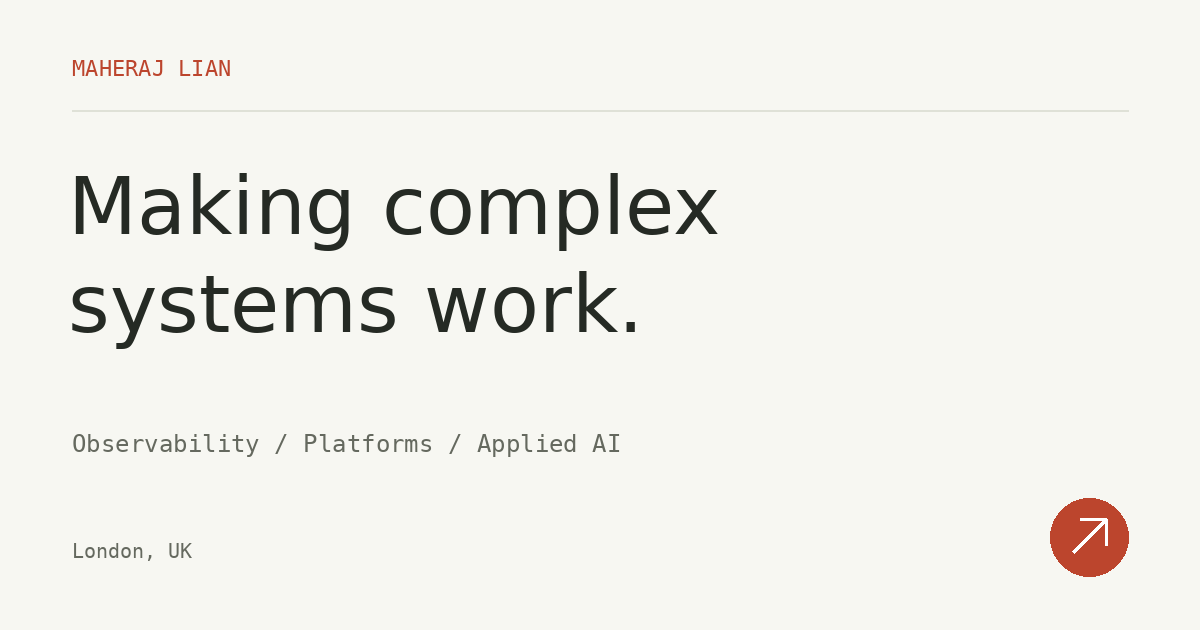
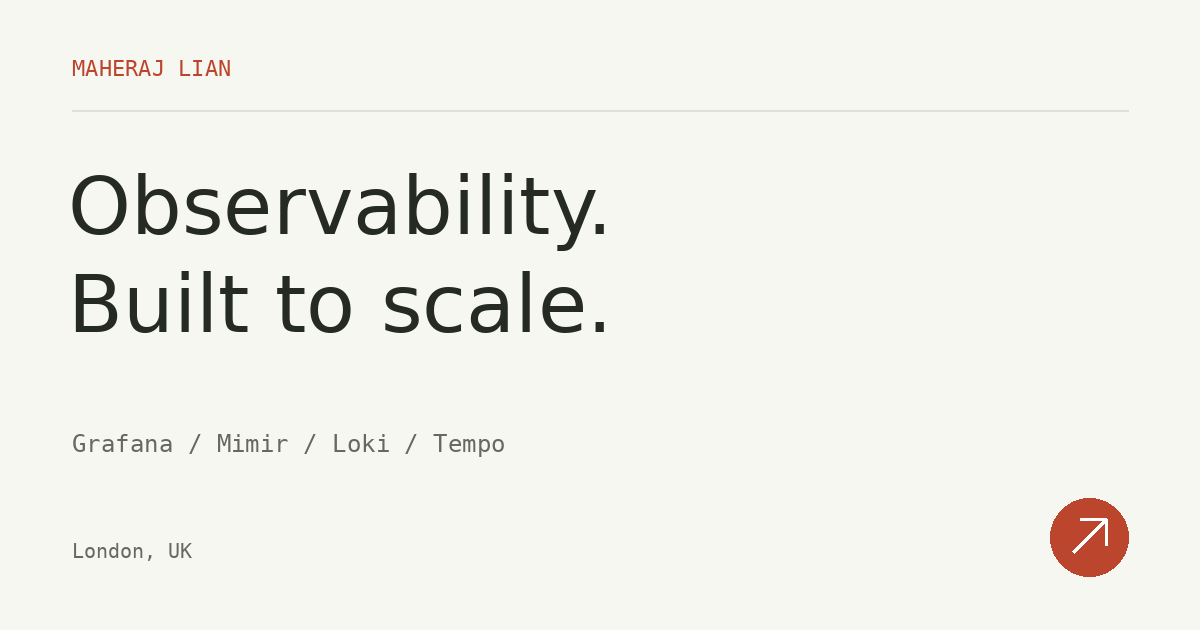
Lead with Grafana observability work and add persistent dark mode

Changed region(s): [[0.0617, 0.2714, 0.6167, 0.3921], [0.0617, 0.4222, 0.5242, 0.573], [0.0617, 0.6937, 0.5242, 0.7238]]

diff --git a/site/index.html b/site/index.html
@@ -5,92 +5,111 @@
   <meta name="viewport" content="width=device-width, initial-scale=1">
   <meta name="theme-color" content="#f7f7f2">
   <title>Maheraj Lian — Systems &amp; Platform Engineer</title>
-  <meta name="description" content="Maheraj Lian is a London-based engineer building observability platforms, distributed systems and applied AI at UBS.">
+  <meta name="description" content="Maheraj Lian engineers enterprise observability at UBS: Grafana, Mimir, Loki, Tempo and governed delivery pipelines used by hundreds of teams.">
   <link rel="canonical" href="https://maherajlian.github.io/my-resume/">
   <meta property="og:type" content="website">
   <meta property="og:title" content="Maheraj Lian — Systems &amp; Platform Engineer">
-  <meta property="og:description" content="Making complex systems work. Observability, distributed systems, platform engineering and applied AI.">
+  <meta property="og:description" content="Observability. Built to scale. Grafana-based monitoring and governed delivery across a global enterprise.">
   <meta property="og:url" content="https://maherajlian.github.io/my-resume/">
   <meta property="og:image" content="https://maherajlian.github.io/my-resume/assets/social.png">
   <meta property="og:image:width" content="1200">
   <meta property="og:image:height" content="630">
-  <meta property="og:image:alt" content="Maheraj Lian. Systems engineering, observability and applied AI. London, UK.">
+  <meta property="og:image:alt" content="Maheraj Lian. Observability. Built to scale. Grafana, Mimir, Loki and Tempo. London, UK.">
   <meta name="twitter:card" content="summary_large_image">
   <link rel="icon" href="assets/favicon.svg" type="image/svg+xml">
+  <script src="theme.js"></script>
   <link rel="stylesheet" href="styles.css">
 </head>
 <body>
   <a class="skip-link" href="#main">Skip to content</a>
   <header class="site-header wrap">
     <a class="brand" href="#" aria-label="ml. Maheraj Lian, back to top"><span class="monogram" aria-hidden="true">ml<span>.</span></span><span>Maheraj Lian</span></a>
-    <nav aria-label="Main navigation">
+    <div class="header-actions"><nav aria-label="Main navigation">
       <a href="#work">Work</a>
       <a href="#experience">Experience</a>
       <a href="#about">About</a>
       <a class="nav-contact" href="#contact">Let’s talk <span aria-hidden="true">↗</span></a>
-    </nav>
+    </nav><button class="theme-toggle" id="theme-toggle" type="button" aria-pressed="false" hidden>
+      <svg class="theme-icon-moon" aria-hidden="true" viewBox="0 0 24 24" fill="none" stroke="currentColor" stroke-width="1.5"><path d="M20 15.5A8.5 8.5 0 0 1 8.5 4 8.5 8.5 0 1 0 20 15.5Z"/></svg>
+      <svg class="theme-icon-sun" aria-hidden="true" viewBox="0 0 24 24" fill="none" stroke="currentColor" stroke-width="1.5"><circle cx="12" cy="12" r="4"/><path d="M12 2v2m0 16v2M2 12h2m16 0h2M5 5l1.5 1.5m11 11L19 19M5 19l1.5-1.5m11-11L19 5"/></svg>
+      <span class="theme-label">Dark mode</span>
+    </button></div>
   </header>
 
   <main id="main">
     <section class="hero wrap" aria-labelledby="hero-title">
       <div class="hero-copy">
-        <p class="eyebrow"><span class="status-dot" aria-hidden="true"></span> Systems engineer · London, UK</p>
-        <h1 id="hero-title">Making complex<br>systems <em>work.</em></h1>
-        <p class="intro">I build the platforms that help people see clearly, move faster and keep critical systems running.</p>
-        <p class="hero-detail">Observability, distributed systems and applied AI.<br>Currently engineering at <strong>UBS.</strong></p>
+        <p class="eyebrow"><span class="status-dot" aria-hidden="true"></span> Observability &amp; platform engineering · London</p>
+        <h1 id="hero-title">Observability.<br>Built to <em>scale.</em></h1>
+        <p class="intro">I engineer Grafana-based monitoring and governed delivery pipelines, helping teams understand production systems and safely ship observability changes.</p>
+        <p class="hero-detail">Grafana · Mimir · Loki · Tempo · Prometheus<br>Systems and platform engineering at <strong>UBS.</strong></p>
         <div class="hero-actions">
           <a class="button button-dark" href="#work">Explore my work <span aria-hidden="true">↓</span></a>
           <a class="text-link" href="assets/Maheraj-Lian-CV.pdf" download>Download CV <span class="file-label">PDF</span><span aria-hidden="true">↗</span></a>
         </div>
       </div>
       <div class="system-illustration" aria-hidden="true">
-        <div class="diagram-top"><span>AN ENGINEER’S PERSPECTIVE</span><span>01 / 03</span></div>
+        <div class="diagram-top"><span>GRAFANA ECOSYSTEM</span><span>METRICS / LOGS / TRACES</span></div>
         <svg viewBox="0 0 460 330" fill="none">
-          <defs><pattern id="dots" x="0" y="0" width="20" height="20" patternUnits="userSpaceOnUse"><circle cx="1" cy="1" r="1" fill="#d7d9d0"/></pattern></defs>
+          <defs><pattern id="dots" x="0" y="0" width="20" height="20" patternUnits="userSpaceOnUse"><circle cx="1" cy="1" r="1" fill="var(--diagram-dot)"/></pattern></defs>
           <path fill="url(#dots)" d="M0 0h460v330H0z"/>
-          <circle cx="230" cy="167" r="124" stroke="#d6d9ce" stroke-dasharray="4 6"/>
-          <path d="M100 100h80v67h50m130-67h-80v67h-50m0 0v99" stroke="#9aab93" stroke-width="1.5"/>
+          <circle cx="230" cy="167" r="124" stroke="var(--diagram-line)" stroke-dasharray="4 6"/>
+          <path d="M100 100h80v67h50m130-67h-80v67h-50m0 0v99" stroke="var(--diagram-track)" stroke-width="1.5"/>
           <circle cx="180" cy="134" r="4" fill="#d95639"/>
           <circle cx="280" cy="130" r="4" fill="#d95639"/>
           <circle cx="230" cy="235" r="4" fill="#d95639"/>
-          <rect x="26" y="67" width="140" height="65" rx="4" fill="#f7f7f2" stroke="#c8cec0"/>
-          <path d="M44 101h6l4-12 6 22 6-14h12" stroke="#607657" stroke-width="1.8"/>
-          <text x="44" y="120" fill="#4d5948" font-size="10" font-family="monospace">OBSERVABILITY</text>
-          <rect x="294" y="67" width="140" height="65" rx="4" fill="#f7f7f2" stroke="#c8cec0"/>
-          <path d="M313 87h18v6h-18zm0 10h18v6h-18z" stroke="#607657" stroke-width="1.5"/>
-          <text x="312" y="120" fill="#4d5948" font-size="10" font-family="monospace">PLATFORMS</text>
-          <rect x="160" y="260" width="140" height="54" rx="4" fill="#f7f7f2" stroke="#c8cec0"/>
-          <path d="m181 272 3 7 7 3-7 3-3 7-3-7-7-3 7-3z" stroke="#607657" stroke-width="1.5"/>
-          <text x="199" y="286" fill="#4d5948" font-size="10" font-family="monospace">APPLIED AI</text>
+          <rect x="26" y="67" width="140" height="65" rx="4" fill="var(--paper)" stroke="var(--diagram-line)"/>
+          <path d="M44 101h6l4-12 6 22 6-14h12" stroke="var(--green)" stroke-width="1.8"/>
+          <text x="44" y="120" fill="var(--diagram-text)" font-size="10" font-family="monospace">METRICS &amp; LOGS</text>
+          <rect x="294" y="67" width="140" height="65" rx="4" fill="var(--paper)" stroke="var(--diagram-line)"/>
+          <path d="M313 87h18v6h-18zm0 10h18v6h-18z" stroke="var(--green)" stroke-width="1.5"/>
+          <text x="312" y="120" fill="var(--diagram-text)" font-size="10" font-family="monospace">DASHBOARDS</text>
+          <rect x="160" y="260" width="140" height="54" rx="4" fill="var(--paper)" stroke="var(--diagram-line)"/>
+          <path d="m181 272 3 7 7 3-7 3-3 7-3-7-7-3 7-3z" stroke="var(--green)" stroke-width="1.5"/>
+          <text x="199" y="286" fill="var(--diagram-text)" font-size="9" font-family="monospace">TRACES &amp; ALERTS</text>
           <rect x="191" y="129" width="78" height="78" rx="15" fill="#d95639"/>
           <path d="m208 167 13 13 29-29" stroke="#fff" stroke-width="3" stroke-linecap="round" stroke-linejoin="round"/>
-          <circle cx="116" cy="224" r="5" fill="#e1e6da" stroke="#9aab93"/>
-          <circle cx="356" cy="217" r="5" fill="#e1e6da" stroke="#9aab93"/>
+          <circle cx="116" cy="224" r="5" fill="var(--diagram-node)" stroke="var(--diagram-track)"/>
+          <circle cx="356" cy="217" r="5" fill="var(--diagram-node)" stroke="var(--diagram-track)"/>
         </svg>
-        <div class="diagram-bottom"><span class="status-dot"></span> COMPLEXITY IN. CLARITY OUT.</div>
+        <div class="diagram-bottom"><span class="status-dot"></span> VISIBILITY. DELIVERY. RELIABILITY.</div>
       </div>
     </section>
 
     <section class="impact wrap" aria-label="Selected engineering impact at UBS">
-      <div><p class="metric">7M<span>+</span></p><p>duplicate alerts suppressed daily</p></div>
-      <div><p class="metric">98.3<span>%</span></p><p>reduction in enrichment time</p></div>
       <div><p class="metric">6<span>+</span></p><p>production regions supported</p></div>
-      <div><p class="metric">30<span>%</span></p><p>less incident triage time in pilot</p></div>
+      <div><p class="metric">1,000s</p><p>Grafana resources governed</p></div>
+      <div><p class="metric">100s</p><p>engineering teams enabled</p></div>
+      <div><p class="metric">7M<span>+</span></p><p>duplicate alerts suppressed daily</p></div>
     </section>
 
     <section class="section wrap" id="work" aria-labelledby="work-title">
-      <div class="section-heading"><div><p class="eyebrow">01 / Selected work</p><h2 id="work-title">Built for the real world.</h2></div><p>Enterprise scale. Measurable impact.<br> Selected engineering work at UBS.</p></div>
+      <div class="section-heading"><div><p class="eyebrow">01 / Selected work</p><h2 id="work-title">Observability, from platform to production.</h2></div><p>Leading with my recent Grafana work.<br> Built for the scale and controls of UBS.</p></div>
       <div class="work-grid">
-        <article class="work-card"><div class="card-top"><span class="card-number">01</span><span class="category">Distributed systems</span><svg aria-hidden="true" viewBox="0 0 24 24"><path d="M4 7h5v5h6V7h5M12 12v8M2 4h4v5H2zm16 0h4v5h-4zM10 18h4v4h-4z"/></svg></div><h3>Less noise.<br>More signal.</h3><p>Designed a Redis-backed event suppression platform eliminating over 7 million duplicate alerts every day, reducing monitoring noise by 70–90% and keeping ingestion stable during event storms.</p><p class="card-result">7M+ <span>duplicate alerts suppressed / day</span></p><ul class="tags" aria-label="Technologies"><li>Redis</li><li>Cribl Stream</li><li>BigPanda</li></ul></article>
-        <article class="work-card"><div class="card-top"><span class="card-number">02</span><span class="category">Platform engineering</span><svg aria-hidden="true" viewBox="0 0 24 24"><path d="M4 5h16v5H4zm0 9h16v5H4zM7 7.5h1m-1 9h1m3-9h6m-6 9h6"/></svg></div><h3>A safer path<br>to production.</h3><p>Independently architected the first approved bank-wide Grafana SDLC: governed CI/CD for thousands of observability resources, used by hundreds of engineering teams across 6+ production regions.</p><p class="card-result">Hundreds <span>of engineering teams enabled</span></p><ul class="tags" aria-label="Technologies"><li>Python</li><li>GitLab CI/CD</li><li>Grafana</li></ul></article>
-        <article class="work-card"><div class="card-top"><span class="card-number">03</span><span class="category">Performance &amp; reliability</span><svg aria-hidden="true" viewBox="0 0 24 24"><path d="M3 18a9 9 0 1 1 18 0M12 15l5-7M7 11l-2-2m7-1V5m6 6 2-2"/><circle cx="12" cy="16" r="2"/></svg></div><h3>Five hours.<br>Five minutes.</h3><p>Re-architected a real-time enrichment pipeline processing 5 million+ records. Parallel workers, batch processing and Redis pipelining cut runtime while Azure Key Vault protected sensitive metadata.</p><p class="card-result">98.3% <span>reduction in processing time</span></p><ul class="tags" aria-label="Technologies"><li>Python</li><li>Azure Redis</li><li>Multithreading</li></ul></article>
+        <article class="work-card work-card-featured">
+          <div class="card-top"><span class="card-number">01</span><span class="category">Grafana SDLC</span><svg aria-hidden="true" viewBox="0 0 24 24"><path d="M4 5h16v5H4zm0 9h16v5H4zM7 7.5h1m-1 9h1m3-9h6m-6 9h6"/></svg></div>
+          <h3>A governed path<br>for Grafana changes.</h3>
+          <p><strong>The context.</strong> In a regulated bank, dashboards and alert rules need controlled production changes too—not just application code.</p>
+          <p><strong>My contribution.</strong> I independently architected and built the first approved bank-wide GitLab SDLC for Grafana configuration. Python pipelines validate and promote resources, combining mandatory peer review with SRE-controlled approval gates, including silence and mute-timing changes.</p>
+          <p><strong>The impact.</strong> Thousands of merge requests and daily promotions across hundreds of engineering teams, from development environments into 6+ geographical production regions.</p>
+          <p class="card-result">Thousands <span>of Grafana resources under governed delivery</span></p><ul class="tags" aria-label="Technologies"><li>Grafana</li><li>Python</li><li>GitLab CI/CD</li></ul>
+        </article>
+        <article class="work-card work-card-featured">
+          <div class="card-top"><span class="card-number">02</span><span class="category">Grafana ecosystem</span><svg aria-hidden="true" viewBox="0 0 24 24"><path d="M2 13h5l3-8 4 15 3-7h5"/></svg></div>
+          <h3>Metrics. Logs. Traces.<br>At enterprise scale.</h3>
+          <p><strong>The context.</strong> Application teams need reliable baseline monitoring before they can add their own dashboards, alerts and operational insights.</p>
+          <p><strong>My contribution.</strong> I engineered monitoring capabilities across Grafana Mimir for metrics, Loki for logs and Tempo for distributed traces, alongside Prometheus and Alertmanager. The bank-wide platform supports tens of thousands of applications and internal infrastructure across multiple regions.</p>
+          <p><strong>Team enablement.</strong> I also delivered technical training and knowledge-sharing sessions to hundreds of engineers across global business functions and technology streams.</p>
+          <p class="card-result">Global <span>baseline monitoring, with application-specific insight</span></p><ul class="tags" aria-label="Technologies"><li>Mimir</li><li>Loki</li><li>Tempo</li><li>Prometheus</li></ul>
+        </article>
+        <article class="work-card"><div class="card-top"><span class="card-number">03</span><span class="category">Event processing &amp; reliability</span><svg aria-hidden="true" viewBox="0 0 24 24"><path d="M3 18a9 9 0 1 1 18 0M12 15l5-7M7 11l-2-2m7-1V5m6 6 2-2"/><circle cx="12" cy="16" r="2"/></svg></div><h3>Quieter pipelines.<br>Faster enrichment.</h3><p>Beyond the Grafana stack, I designed Redis-backed event suppression eliminating 7 million+ duplicate alerts daily and reducing noise by 70–90%. In a separate enrichment pipeline processing 5 million+ records, parallel workers, batching and Redis pipelining cut runtime from five hours to five minutes—a 98.3% reduction.</p><p class="card-result">7M+ <span>duplicate alerts suppressed / day</span></p><ul class="tags" aria-label="Technologies"><li>Redis</li><li>Cribl Stream</li><li>BigPanda</li></ul></article>
         <article class="work-card"><div class="card-top"><span class="card-number">04</span><span class="category">Applied AI</span><svg aria-hidden="true" viewBox="0 0 24 24"><path d="m12 2 3 7 7 3-7 3-3 7-3-7-7-3 7-3z"/></svg></div><h3>Better context.<br>Faster response.</h3><p>Took an enterprise AI incident assistant from solo proof of concept to delivery with a five-engineer team. Connected incident context and similar-incident discovery with response guardrails and prompt regression tests.</p><p class="card-result">30% <span>less triage time during the pilot</span></p><ul class="tags" aria-label="Technologies"><li>Azure OpenAI</li><li>Python / Flask</li><li>RAG</li></ul></article>
       </div>
     </section>
 
     <section class="experience-section" id="experience" aria-labelledby="experience-title"><div class="section wrap">
       <div class="section-heading"><div><p class="eyebrow">02 / Experience</p><h2 id="experience-title">From ideas to infrastructure.</h2></div><p>4+ years building and supporting<br> mission-critical enterprise systems.</p></div>
-      <article class="experience-row"><div class="job-meta"><p class="company">UBS<span class="company-dot">.</span></p><p>Sep 2022 — Present</p><p>London, UK</p></div><div class="job-body"><h3>Applied AI Engineer</h3><p class="job-team">Automation Services</p><p>Systems and platform engineering across enterprise observability, distributed event processing, production monitoring and incident automation in a global, regulated financial institution.</p><ul class="job-highlights"><li>Built monitoring across Grafana Mimir, Loki, Tempo, Prometheus and Alertmanager, supporting metrics, logs and traces across global infrastructure.</li><li>Led the observability team’s Netcool migration to BigPanda and Cribl Stream across approximately 12 major integrations, replacing 40+ custom Perl enrichment scripts and onboarding 10+ engineering teams.</li><li>Act as an engineering escalation point for SRE teams; built end-to-end alert latency monitoring with Python, Prometheus and Grafana.</li></ul><details><summary>More about my work at UBS <span aria-hidden="true">+</span></summary><div class="details-content"><p>Built governed Python automation for Grafana dashboards, alert rules and controlled silence changes, with peer reviews, automated validation and SRE approval gates.</p><p>Developed incident summarisation and retrieval using Azure OpenAI, embeddings, Azure AI Search and daily Databricks indexing pipelines, processing hundreds of thousands of records at peak.</p><p>Implemented secure deployment patterns with Azure Key Vault, private endpoints, Terraform and CI/CD. Delivered technical training and knowledge-sharing to hundreds of engineers across global teams.</p></div></details></div></article>
+      <article class="experience-row"><div class="job-meta"><p class="company">UBS<span class="company-dot">.</span></p><p>Sep 2022 — Present</p><p>London, UK</p></div><div class="job-body"><h3>Applied AI Engineer</h3><p class="job-team">Automation Services</p><p>My recent work centres on enterprise observability and platform engineering: giving application teams visibility into production and a governed way to manage their Grafana resources in a global, regulated financial institution.</p><ul class="job-highlights"><li>Independently architected the bank-wide Grafana SDLC: Python validation and promotion, mandatory peer review and SRE approval gates for thousands of resources across 6+ production regions.</li><li>Engineered monitoring with Grafana Mimir, Loki, Tempo, Prometheus and Alertmanager, supporting metrics, logs and distributed traces across global infrastructure.</li><li>Enabled application teams through baseline monitoring and technical training for hundreds of engineers. Act as an engineering escalation point for SRE teams, with end-to-end alert latency monitoring built using Python, Prometheus and Grafana.</li></ul><details><summary>More engineering work at UBS <span aria-hidden="true">+</span></summary><div class="details-content"><p>Led the observability team’s Netcool migration to BigPanda and Cribl Stream across approximately 12 major integrations, replacing 40+ custom Perl enrichment scripts and onboarding 10+ engineering teams.</p><p>Developed incident summarisation and retrieval using Azure OpenAI, embeddings, Azure AI Search and daily Databricks indexing pipelines, processing hundreds of thousands of records at peak.</p><p>Implemented secure deployment patterns with Azure Key Vault, private endpoints, Terraform and CI/CD.</p></div></details></div></article>
       <article class="experience-row"><div class="job-meta"><p class="company company-small">Zustech</p><p>Dec 2021 — Jun 2022</p><p>Remote</p></div><div class="job-body"><h3>Software Engineering Intern</h3><p>Developed REST APIs with ASP.NET Core for an enterprise learning platform, supporting authentication and transactional workflows. Optimised SQL Server schemas, indexing and stored procedures to reduce critical endpoint response times by 40%, and deployed services to AWS.</p></div></article>
     </div></section>
 

diff --git a/site/styles.css b/site/styles.css
@@ -1,21 +1,31 @@
 @charset "UTF-8";
-:root{--paper:#f7f7f2;--ink:#252a24;--muted:#65695f;--accent:#bc452d;--line:#dfe1d7;--green:#617353;--tint:#eef0e7;--white:#fff;--mono:"SFMono-Regular",Consolas,"Liberation Mono",monospace;--sans:Arial,Helvetica,sans-serif}
+:root{color-scheme:light;--paper:#f7f7f2;--ink:#252a24;--muted:#65695f;--accent:#bc452d;--line:#dfe1d7;--green:#617353;--tint:#eef0e7;--panel:#fafbf7;--about:#f0f0e9;--line-strong:#d5dace;--green-muted:#53644b;--diagram-line:#c8cec0;--diagram-track:#9aab93;--diagram-text:#4d5948;--diagram-dot:#d7d9d0;--diagram-node:#e1e6da;--badge-line:#aebba1;--link-rule:#a4aa9b;--mono:"SFMono-Regular",Consolas,"Liberation Mono",monospace;--sans:Arial,Helvetica,sans-serif}
+:root[data-theme="dark"]{color-scheme:dark;--paper:#141b18;--ink:#e9ede5;--muted:#abb5a8;--accent:#ee997d;--line:#344239;--green:#afc69b;--tint:#1c2921;--panel:#1b251f;--about:#1a241e;--line-strong:#3a4a3c;--green-muted:#acbfa0;--diagram-line:#60735f;--diagram-track:#71896b;--diagram-text:#bacbb0;--diagram-dot:#42513f;--diagram-node:#29392b;--badge-line:#72856a;--link-rule:#819379}
 *{box-sizing:border-box}
 html{scroll-behavior:smooth;scroll-padding-top:30px}
 body{margin:0;background:var(--paper);color:var(--ink);font-family:var(--sans);font-size:16px;line-height:1.65;-webkit-font-smoothing:antialiased}
 ::selection{background:#f2c3ad;color:var(--ink)}
 a{color:inherit;text-decoration:none}
 a:hover{color:var(--accent)}
-a,summary{touch-action:manipulation}
-a:focus-visible,summary:focus-visible{outline:3px solid var(--accent);outline-offset:6px;border-radius:2px}
+a,summary,button{touch-action:manipulation}
+a:focus-visible,summary:focus-visible,button:focus-visible{outline:3px solid var(--accent);outline-offset:6px;border-radius:2px}
 h1,h2,h3,h4,p{margin:0}
 h1,h2,h3,h4{font-weight:500;line-height:1.12;letter-spacing:-.045em}
 em{font-family:Georgia,"Times New Roman",serif;font-weight:400;color:var(--accent)}
 .wrap{width:min(1200px,calc(100% - 112px));margin-inline:auto}
-.skip-link{position:absolute;top:12px;left:16px;z-index:10;padding:8px 14px;background:var(--ink);color:white;transform:translateY(-160%)}
-.skip-link:focus{transform:translateY(0);color:white}
+.skip-link{position:absolute;top:12px;left:16px;z-index:10;padding:8px 14px;background:var(--ink);color:var(--paper);transform:translateY(-160%)}
+.skip-link:focus{transform:translateY(0);color:var(--paper)}
 .site-header{min-height:108px;display:flex;align-items:center;justify-content:space-between;border-bottom:1px solid var(--line);gap:24px}
 .brand{display:flex;gap:14px;align-items:center;font-size:14px;font-weight:600;letter-spacing:-.02em}
+.header-actions{display:flex;align-items:center;gap:24px}
+.theme-toggle{display:inline-flex;align-items:center;justify-content:center;gap:7px;min-width:44px;min-height:44px;padding:8px 10px;background:transparent;color:var(--ink);border:1px solid var(--line);border-radius:4px;cursor:pointer;font:10px var(--mono)}
+.theme-toggle[hidden]{display:none}
+.theme-toggle:hover{border-color:var(--accent)}
+.theme-toggle[aria-pressed="true"]{border-color:var(--green)}
+.theme-toggle svg{width:16px;height:16px;flex:none}
+.theme-icon-sun{display:none}
+[data-theme="dark"] .theme-icon-sun{display:block}
+[data-theme="dark"] .theme-icon-moon{display:none}
 .monogram{font-size:34px;line-height:1;font-weight:700;letter-spacing:-.11em}
 .monogram span{color:var(--accent)}
 nav{display:flex;align-items:center;gap:32px;font-size:13px}
@@ -31,13 +41,13 @@ h1{font-size:clamp(52px,5.7vw,82px);line-height:1.04;letter-spacing:-.065em;marg
 .hero-actions{display:flex;align-items:center;flex-wrap:wrap;gap:26px;margin-top:32px;font-size:12px}
 .button{display:inline-flex;align-items:center;justify-content:center;gap:32px;min-height:48px;padding:12px 20px;border:1px solid var(--ink);transition:background .15s,color .15s}
 .button-dark{background:var(--ink);color:var(--paper)}
-.button-dark:hover{background:var(--accent);border-color:var(--accent);color:white}
+.button-dark:hover{background:var(--accent);border-color:var(--accent);color:var(--paper)}
 .text-link{display:inline-flex;gap:9px;align-items:center;padding-block:12px}
 .file-label{font:9px var(--mono);color:var(--muted);border:1px solid var(--line);padding:3px}
-.system-illustration{background:var(--tint);border:1px solid #dfe3d5;border-radius:6px;transform:rotate(-2deg);padding:20px 17px 18px;max-width:460px}
+.system-illustration{background:var(--tint);border:1px solid var(--line);border-radius:6px;transform:rotate(-2deg);padding:20px 17px 18px;max-width:460px}
 .system-illustration svg{display:block;width:100%;height:auto;margin-block:14px}
-.diagram-top{display:flex;justify-content:space-between;font:8px var(--mono);letter-spacing:.04em;color:#5c6655}
-.diagram-bottom{font:9px var(--mono);letter-spacing:.05em;display:flex;gap:7px;align-items:center;justify-content:center;color:#4d5948}
+.diagram-top{display:flex;justify-content:space-between;font:8px var(--mono);letter-spacing:.04em;color:var(--green-muted)}
+.diagram-bottom{font:9px var(--mono);letter-spacing:.05em;display:flex;gap:7px;align-items:center;justify-content:center;color:var(--diagram-text)}
 .impact{display:grid;grid-template-columns:repeat(4,1fr);padding-block:32px 35px;border-block:1px solid var(--line);gap:24px}
 .impact>div{border-right:1px solid var(--line);padding-right:20px}
 .impact>div:last-child{border:0;padding:0}
@@ -49,7 +59,9 @@ h1{font-size:clamp(52px,5.7vw,82px);line-height:1.04;letter-spacing:-.065em;marg
 .section-heading h2{font-size:38px;margin-top:17px}
 .section-heading>p{font-size:12px;line-height:1.8;color:var(--muted);min-width:220px;padding-bottom:2px}
 .work-grid{display:grid;grid-template-columns:repeat(2,minmax(0,1fr));gap:20px}
-.work-card{padding:30px 32px 26px;background:#fafbf7;border:1px solid var(--line);border-radius:3px;display:flex;flex-direction:column;align-items:start}
+.work-card{padding:30px 32px 26px;background:var(--panel);border:1px solid var(--line);border-radius:3px;display:flex;flex-direction:column;align-items:start}
+.work-card-featured{border-top:3px solid var(--green);background:var(--tint)}
+.work-card strong{font-weight:500;color:var(--ink)}
 .card-top{display:flex;gap:13px;align-items:center;width:100%;margin-bottom:31px}
 .card-number{font:10px var(--mono);color:var(--muted)}
 .category{font:9px var(--mono);text-transform:uppercase;letter-spacing:.07em;color:var(--muted)}
@@ -59,9 +71,9 @@ h1{font-size:clamp(52px,5.7vw,82px);line-height:1.04;letter-spacing:-.065em;marg
 .work-card .card-result{font-size:27px;letter-spacing:-.05em;line-height:1.3;margin-top:auto;margin-bottom:23px}
 .card-result span{font-size:11px;letter-spacing:0;color:var(--muted);display:block;margin-top:5px}
 .tags{list-style:none;padding:0;margin:0;display:flex;flex-wrap:wrap;gap:6px}
-.tags li{font:9px var(--mono);padding:7px 9px;border:1px solid var(--line);border-radius:3px;color:#5c6655}
+.tags li{font:9px var(--mono);padding:7px 9px;border:1px solid var(--line);border-radius:3px;color:var(--green-muted)}
 .experience-section{background:var(--tint);border-block:1px solid var(--line)}
-.experience-row{display:grid;grid-template-columns:1fr 2fr;gap:48px;padding-block:36px;border-top:1px solid #d5dace}
+.experience-row{display:grid;grid-template-columns:1fr 2fr;gap:48px;padding-block:36px;border-top:1px solid var(--line-strong)}
 .experience-row:last-child{padding-bottom:0}
 .job-meta>p:not(.company){color:var(--muted);font-size:11px;line-height:1.9}
 .company{font-size:35px;letter-spacing:-.07em;line-height:1.2;margin-bottom:17px}
@@ -69,11 +81,11 @@ h1{font-size:clamp(52px,5.7vw,82px);line-height:1.04;letter-spacing:-.065em;marg
 .company-small{font-size:28px;letter-spacing:-.05em}
 .job-body h3{font-size:24px;letter-spacing:-.035em}
 .job-body>p{font-size:13px;line-height:1.85;color:var(--muted);max-width:650px}
-.job-body>p.job-team{margin-block:8px 17px;font:10px var(--mono);color:#53644b}
+.job-body>p.job-team{margin-block:8px 17px;font:10px var(--mono);color:var(--green-muted)}
 .job-highlights{padding-left:16px;margin:18px 0;color:var(--muted);font-size:12px;line-height:1.9}
 .job-highlights li{padding-left:5px;margin-block:9px}
 .job-highlights li::marker{color:var(--green)}
-details{border-top:1px solid #d5dace;margin-top:24px}
+details{border-top:1px solid var(--line-strong);margin-top:24px}
 summary{cursor:pointer;font-size:12px;padding-block:15px;display:flex;justify-content:space-between;gap:15px;list-style:none}
 summary::-webkit-details-marker{display:none}
 summary span{font-size:18px;color:var(--green);line-height:1}
@@ -87,10 +99,10 @@ details[open] summary span{transform:rotate(45deg)}
 .skills-grid p{font-size:12px;line-height:2;color:var(--muted)}
 .certifications{margin-top:34px;border-top:1px solid var(--line);padding-top:22px;display:flex;align-items:center;gap:10px;font-size:12px;flex-wrap:wrap}
 .certifications>span:last-child{font:10px var(--mono);color:var(--muted);margin-left:auto}
-.cert-icon{border:1px solid #aebba1;border-radius:50%;color:var(--green);width:20px;height:20px;display:inline-flex;align-items:center;justify-content:center;font-size:11px}
-.about-section{background:#f0f0e9;border-block:1px solid var(--line)}
+.cert-icon{border:1px solid var(--badge-line);border-radius:50%;color:var(--green);width:20px;height:20px;display:inline-flex;align-items:center;justify-content:center;font-size:11px}
+.about-section{background:var(--about);border-block:1px solid var(--line)}
 .about-grid{display:grid;grid-template-columns:1fr 1fr;gap:84px}
-.column-heading{font:10px var(--mono);text-transform:uppercase;letter-spacing:.07em;padding-bottom:18px;border-bottom:1px solid #d5dace;margin-bottom:26px}
+.column-heading{font:10px var(--mono);text-transform:uppercase;letter-spacing:.07em;padding-bottom:18px;border-bottom:1px solid var(--line-strong);margin-bottom:26px}
 .about-item,.community-item{margin-top:26px}
 .date-label{font:9px var(--mono);color:var(--muted);letter-spacing:.02em;margin-bottom:10px}
 .about-grid h4{font-size:20px;line-height:1.3;letter-spacing:-.03em}
@@ -102,14 +114,15 @@ details[open] summary span{transform:rotate(45deg)}
 .contact-heading{display:flex;justify-content:space-between;gap:24px;align-items:center;margin-block:23px}
 .contact h2{font-size:56px;letter-spacing:-.05em}
 .contact-arrow{background:var(--ink);color:var(--paper);border-radius:50%;width:74px;height:74px;display:flex;align-items:center;justify-content:center;font-size:37px;flex:none;transition:background .15s}
-.contact-arrow:hover{background:var(--accent);color:white}
-.email-link{font-size:17px;border-bottom:1px solid #a4aa9b;padding-bottom:4px;overflow-wrap:anywhere}
+.contact-arrow:hover{background:var(--accent);color:var(--paper)}
+.email-link{font-size:17px;border-bottom:1px solid var(--link-rule);padding-bottom:4px;overflow-wrap:anywhere}
 .contact-location{font-size:11px;color:var(--muted);margin-top:14px}
 .site-footer{display:flex;justify-content:space-between;align-items:center;gap:24px;border-top:1px solid var(--line);padding-block:26px;font-size:10px;color:var(--muted)}
 .site-footer>div{display:flex;gap:22px}
 @media(min-width:1500px){.hero{padding-block:100px 90px}}
 @media(max-width:1000px){.wrap{width:calc(100% - 64px)}.hero{gap:30px;padding-block:64px}.hero-actions{gap:16px}.system-illustration{padding:14px 10px}.diagram-top{font-size:6px}.diagram-bottom{font-size:7px}.intro{font-size:17px}.metric{font-size:38px}.impact p:last-child{font-size:10px}.section-heading h2{font-size:32px}.section-heading>p{min-width:190px;font-size:11px}.work-card{padding:26px}.category{font-size:8px}.about-grid{gap:48px}.contact h2{font-size:48px}.site-footer>p:nth-child(2){display:none}}
 @media(max-width:720px){.wrap{width:calc(100% - 40px)}.site-header{min-height:84px;gap:12px}.brand{font-size:12px;gap:10px}.monogram{font-size:30px}nav{gap:19px;font-size:11px}nav>a:nth-child(2),nav>a:nth-child(3){display:none}.nav-contact{margin:0}.nav-contact span{margin-left:4px}.hero{grid-template-columns:1fr;padding-block:48px 42px;gap:40px}.hero .eyebrow{font-size:9px}h1{font-size:clamp(46px,9.5vw,68px);margin-top:23px;margin-bottom:22px}.intro{font-size:17px;max-width:440px}.hero-detail{font-size:13px}.hero-actions{gap:22px;margin-top:26px}.system-illustration{transform:none;max-width:none;padding:16px 16px 15px}.system-illustration svg{max-width:360px;margin:8px auto}.diagram-top{font-size:8px}.diagram-bottom{font-size:9px}.impact{grid-template-columns:1fr 1fr;gap:24px 18px;padding-block:27px}.impact>div{padding-right:12px}.impact>div:nth-child(2){border:0}.metric{font-size:37px;margin-bottom:6px}.metric span{font-size:27px}.impact p:last-child{font-size:10px}.section{padding-block:56px}.section-heading{display:block;margin-bottom:28px}.section-heading h2{font-size:31px;margin-top:14px}.section-heading>p{margin-top:17px;font-size:12px}.section-heading>p br{display:none}.eyebrow{font-size:10px}.work-grid{grid-template-columns:1fr;gap:16px}.work-card{padding:25px}.card-top{margin-bottom:25px}.category{font-size:9px}.work-card h3{font-size:30px}.work-card>p:not(.card-result){font-size:13px}.experience-row{grid-template-columns:1fr;gap:22px;padding-block:28px}.job-meta{display:grid;grid-template-columns:1fr auto;column-gap:12px;align-items:center}.job-meta .company{grid-row:span 2;margin-bottom:0;font-size:30px}.job-meta>p:not(.company){font-size:10px;text-align:right}.job-body h3{font-size:23px}.skills-grid{grid-template-columns:1fr 1fr;gap:25px 22px}.skills-grid h3{font-size:17px;line-height:1.25}.skills-grid p{font-size:11px}.about-grid{grid-template-columns:1fr;gap:40px}.contact{padding-block:56px 46px}.contact h2{font-size:clamp(33px,7.7vw,47px)}.contact-heading{gap:15px}.contact-arrow{width:48px;height:48px;font-size:27px}.email-link{font-size:16px}.site-footer{flex-wrap:wrap;gap:12px;padding-block:22px}.site-footer>div{gap:20px}.certifications{font-size:11px}.certifications>span:last-child{font-size:9px}}
+@media(max-width:720px){.header-actions{gap:14px}.theme-toggle{padding:8px}.theme-label{position:absolute;width:1px;height:1px;padding:0;margin:-1px;overflow:hidden;clip-path:inset(50%);white-space:nowrap;border:0}}
 @media(max-width:359px){.wrap{width:calc(100% - 32px)}.brand>span:last-child{display:none}h1{font-size:43px}.hero-actions{gap:14px}.button{gap:20px;padding-inline:15px}.skills-grid{grid-template-columns:1fr}.category{font-size:8px}.contact h2{font-size:30px}.contact-arrow{width:40px;height:40px}.certifications>span:last-child{margin-left:30px}}
 @media(prefers-reduced-motion:reduce){html{scroll-behavior:auto}*,*::before,*::after{transition:none!important}}
-@media print{body{background:white;font-size:11px}.wrap{width:100%}.site-header{min-height:50px}nav,.system-illustration,.hero-actions,.contact-arrow,.site-footer>div,.skip-link{display:none}.hero{display:block;padding-block:28px}h1{font-size:42px}.intro{max-width:none}.impact{padding-block:16px}.section,.contact{padding-block:28px}.section-heading{margin-bottom:20px}.section-heading h2{font-size:26px}.work-card,.skills-grid>div,.about-item,.community-item{break-inside:avoid}.work-card{padding:18px}.work-card h3{font-size:24px}.experience-section,.about-section{background:white}.experience-row{gap:20px;padding-block:20px}.contact h2{font-size:32px}.about-grid{gap:40px}.contact-heading{margin-block:12px}a{color:inherit}.site-footer{display:none}.work-card>p:not(.card-result),.job-body>p,.job-highlights,.about-grid p:not(.date-label){font-size:11px}}
+@media print{:root,:root[data-theme]{color-scheme:light;--paper:#fff;--ink:#252a24;--muted:#65695f;--accent:#bc452d;--line:#dfe1d7;--green:#617353;--tint:#fff;--panel:#fff;--about:#fff;--line-strong:#d5dace;--green-muted:#53644b}body{background:white;font-size:11px}.wrap{width:100%}.site-header{min-height:50px}.header-actions,nav,.system-illustration,.hero-actions,.contact-arrow,.site-footer>div,.skip-link{display:none}.hero{display:block;padding-block:28px}h1{font-size:42px}.intro{max-width:none}.impact{padding-block:16px}.section,.contact{padding-block:28px}.section-heading{margin-bottom:20px}.section-heading h2{font-size:26px}.work-card,.skills-grid>div,.about-item,.community-item{break-inside:avoid}.work-card{padding:18px}.work-card h3{font-size:24px}.experience-section,.about-section{background:white}.experience-row{gap:20px;padding-block:20px}.contact h2{font-size:32px}.about-grid{gap:40px}.contact-heading{margin-block:12px}a{color:inherit}.site-footer{display:none}.work-card>p:not(.card-result),.job-body>p,.job-highlights,.about-grid p:not(.date-label){font-size:11px}}

diff --git a/site/theme.js b/site/theme.js
@@ -1,0 +1,53 @@
+(() => {
+  const key = "resume-theme";
+  const root = document.documentElement;
+  const themeColor = document.querySelector('meta[name="theme-color"]');
+  const media = window.matchMedia ? window.matchMedia("(prefers-color-scheme: dark)") : null;
+  const validPreference = (value) => value === "light" || value === "dark";
+  let preference = null;
+  let button;
+
+  try {
+    const saved = window.localStorage.getItem(key);
+    if (validPreference(saved)) preference = saved;
+  } catch {}
+
+  function applyTheme() {
+    const theme = preference || (media && media.matches ? "dark" : "light");
+    root.dataset.theme = theme;
+    if (themeColor) themeColor.setAttribute("content", theme === "dark" ? "#141b18" : "#f7f7f2");
+    if (button) button.setAttribute("aria-pressed", String(theme === "dark"));
+  }
+
+  function setupToggle() {
+    button = document.getElementById("theme-toggle");
+    if (!button) return;
+    applyTheme();
+    button.hidden = false;
+    button.addEventListener("click", () => {
+      preference = root.dataset.theme === "dark" ? "light" : "dark";
+      try {
+        window.localStorage.setItem(key, preference);
+      } catch {}
+      applyTheme();
+    });
+  }
+
+  applyTheme();
+  if (document.readyState === "loading") {
+    document.addEventListener("DOMContentLoaded", setupToggle, { once: true });
+  } else {
+    setupToggle();
+  }
+
+  if (media && media.addEventListener) {
+    media.addEventListener("change", () => {
+      if (!preference) applyTheme();
+    });
+  }
+  window.addEventListener("storage", (event) => {
+    if (event.key !== key && event.key !== null) return;
+    preference = validPreference(event.newValue) ? event.newValue : null;
+    applyTheme();
+  });
+})();

diff --git a/tests/test_site.py b/tests/test_site.py
@@ -109,7 +109,27 @@ class ResumeSiteTests(unittest.TestCase):
             if "aria-labelledby" in section:
                 self.assertIn(section["aria-labelledby"], self.ids)
         self.assertEqual(len(self.doc.matching("summary")), 1)
-        self.assertNotIn("<script", self.source.lower())
+        self.assertEqual([script.get("src") for script in self.doc.matching("script")], ["theme.js"])
+
+    def test_grafana_work_leads_the_page(self):
+        hero = self.source.split('class="hero wrap"', 1)[1].split('class="system-illustration"', 1)[0]
+        self.assertIn("Grafana-based monitoring", hero)
+        cards = re.findall(r'<article class="work-card[^\"]*">(.*?)</article>', self.source, re.S)
+        self.assertEqual(len(cards), 4)
+        self.assertIn("Grafana SDLC", cards[0])
+        self.assertIn("Grafana ecosystem", cards[1])
+        for context in ("The context.", "My contribution."):
+            self.assertIn(context, cards[0])
+            self.assertIn(context, cards[1])
+        for product in ("Mimir for metrics", "Loki for logs", "Tempo for distributed traces"):
+            self.assertIn(product, cards[1])
+
+    def test_theme_toggle_is_progressively_enhanced(self):
+        toggle = next(b for b in self.doc.matching("button") if b.get("id") == "theme-toggle")
+        self.assertEqual(toggle["type"], "button")
+        self.assertEqual(toggle["aria-pressed"], "false")
+        self.assertIn("hidden", toggle)
+        self.assertLess(self.source.index('<script src="theme.js">'), self.source.index('href="styles.css"'))
 
     def test_brand_label_includes_visible_name_and_monogram(self):
         brand = next(a for a in self.doc.matching("a") if a.get("class") == "brand")
@@ -144,6 +164,7 @@ class ResumeSiteTests(unittest.TestCase):
         css = (SITE / "styles.css").read_text(encoding="utf-8")
         print_styles = css.split("@media print", 1)[1]
         self.assertIn(".site-footer{display:none}", print_styles)
+        self.assertIn(":root,:root[data-theme]{color-scheme:light", print_styles)
 
 
 if __name__ == "__main__":

diff --git a/README.md b/README.md
@@ -19,20 +19,32 @@ Open http://localhost:8000. All published files live in `site/`.
 
 ```sh
 python -m unittest discover -s tests -v
+node --test tests/theme.test.cjs
 ```
 
 Checks cover local links, project-relative asset paths, PDF downloads, CV
 content, metadata, sitemap and accessibility basics. The site also supports
 keyboard navigation, native expandable experience, reduced motion and print.
-Browser-based visual and accessibility checks complement these static checks.
+Theme tests use the built-in Node.js test runner (Node 24 in CI), with no npm
+dependencies. Browser-based visual and accessibility checks complement them.
+
+## Appearance
+
+The header’s **Dark mode** toggle follows the system preference on first visit,
+then remembers an explicit choice in this browser. It also syncs changes across
+tabs and continues working when local storage is unavailable. Without JavaScript,
+the resume remains readable in light mode and the toggle stays hidden. Printing
+always uses the light palette regardless of the selected screen theme.
 
 ## Edit
 
 - `site/index.html`: copy, experience, projects, skills and contact links.
 - `site/styles.css`: colours, responsive layouts and print styles.
+- `site/theme.js`: system preference, accessible toggle and saved theme choice.
 - `site/assets/Maheraj-Lian-CV.pdf`: the original downloadable CV.
 - `site/assets/social.png`: social sharing image.
 - `tests/test_site.py`: content and publishing checks.
+- `tests/theme.test.cjs`: dependency-free theme behavior tests.
 
 The HTML summarises the CV rather than adding new biographical claims. The
 inconsistent "25–20 million metric samples per minute" figure in the source CV
